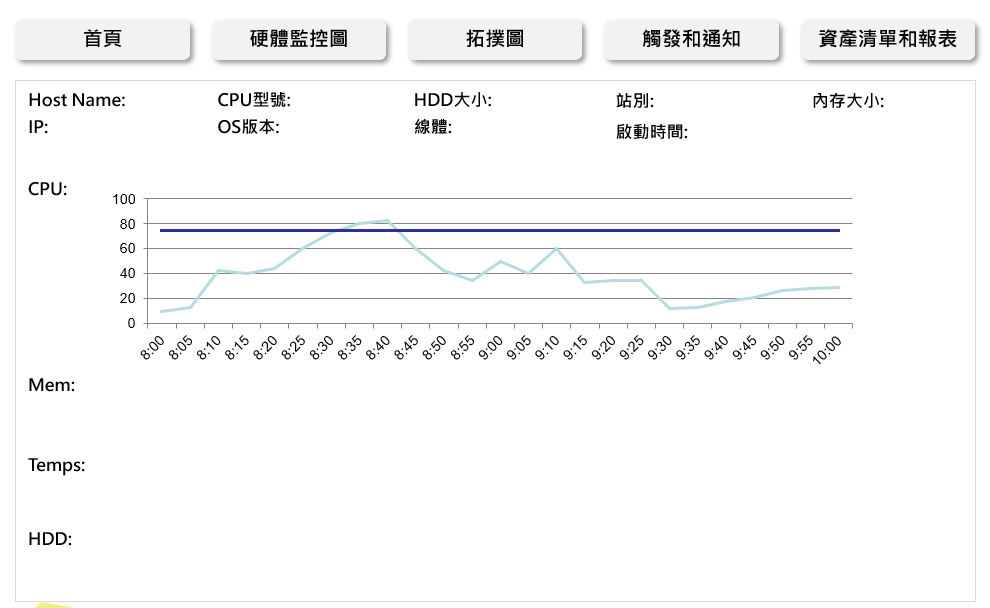
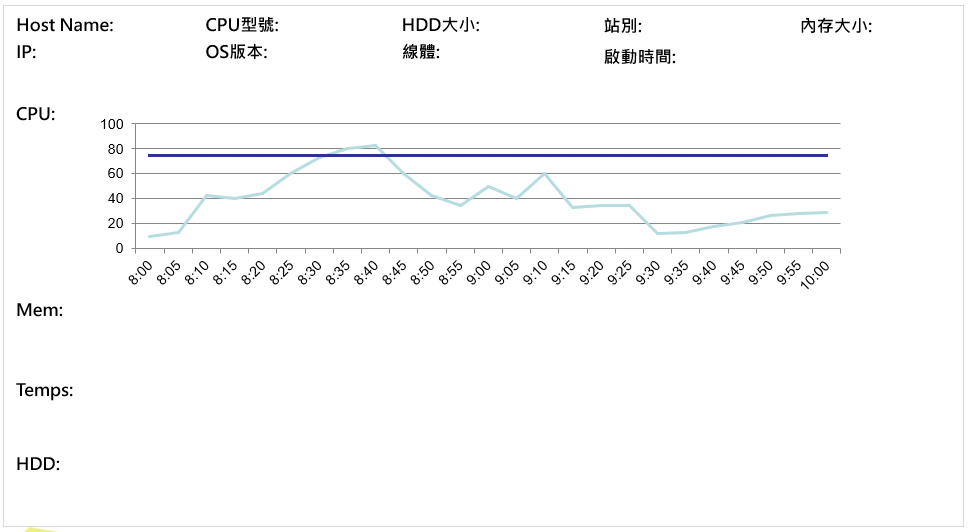
add Host-PC-Monitoring-2.md

diff --git a/content/post/Host-PC-Monitoring-1.md b/content/post/Host-PC-Monitoring-1.md
@@ -42,22 +42,32 @@ categories: [运维]
 - 封装Windows image
     - 使用工具：EasySysprep
     - 参考连接：[https://cloud.tencent.com/developer/article/1438238](https://cloud.tencent.com/developer/article/1438238)
-- 自动化部署电脑系统、驱动和程式（单独章节说明）
-    - 使用工具和方法：Ansible、PXE备份还原、自定义系统开发
+
 - 自动升级电脑补丁
     - 使用工具：WSUS
-- 电脑自动休眠和shutdown（待完善）
+
 - 远程登录产线电脑，并协助处理问题
     - 使用工具：TightVNC
     - 使用方法：将VNC工具封装在电脑image中，透过监控系统获取电脑的IP信息，再透过服务器远程控制产线电脑
+
 - 自动检查officescan和正版激活状况
     - 自定义开发工具：[https://github.com/Charles-Miao/Python-in-Action/tree/master/CheckComputer](https://github.com/Charles-Miao/Python-in-Action/tree/master/CheckComputer)
     - 透过监控系统实现闭环管理
-- 电脑监控系统设计和开发（单独章节说明）
+
+- 电脑监控系统设计和开发
     - 实现监控电脑基本信息、安全信息、系统性能、系统运行状况等
-- 透过监控数据分析电脑问题（单独章节说明）
+    - 介绍连接：[https://charles-miao.github.io/post/Host-PC-Monitoring-2/](https://charles-miao.github.io/post/Host-PC-Monitoring-2/)
+
+- 透过监控数据分析电脑问题（待更新）
     - 使用工具和方法：R，相关性分析
-- 电脑故障追踪，协助分析问题（单独章节说明）
+
+- 自动化部署电脑系统、驱动和程式（待更新）
+    - 使用工具和方法：Ansible、PXE备份还原、自定义系统开发
+
+- 电脑故障追踪，协助分析问题（待完善）
     - 使用工具：Mantis，trac
-- 电脑智慧化管理案例分享（单独章节说明）
+
+- 电脑智慧化管理案例分享（待完善）
+
+- 电脑自动休眠和shutdown（待完善）
 

diff --git a/content/post/Host-PC-Monitoring-2.md b/content/post/Host-PC-Monitoring-2.md
@@ -1,0 +1,41 @@
+---
+title: "生产电脑智慧化管理 - 数据可视化篇"
+date: 2020-09-01T22:49:33+08:00
+description: ""
+draft: false
+tags: [监控, 可视化]
+categories: [原型设计]
+---
+主要内容
+---
+- 监控项目
+- web界面设计
+<!--more-->
+
+监控项目
+---
+- 监控项目主要包含：电脑基本信息、电脑安全信息、电脑性能，以及系统运行状况等
+- 详细items：[https://github.com/Charles-Miao/blog/blob/master/static/Host-PC-Monitoring/monitor-items.xlsx](https://github.com/Charles-Miao/blog/blob/master/static/Host-PC-Monitoring/monitor-items.xlsx)
+
+web界面设计
+---
+
+首页
+
+![index](https://github.com/Charles-Miao/blog/blob/master/static/Host-PC-Monitoring/index.GIF?raw=true)
+
+实时数据页
+
+![real-time](https://github.com/Charles-Miao/blog/blob/master/static/Host-PC-Monitoring/real-time.GIF?raw=true)
+
+每台电脑详细数据
+
+![detail](https://github.com/Charles-Miao/blog/blob/master/static/Host-PC-Monitoring/detail.PNG?raw=true)
+
+维护界面
+
+![maintenance](https://github.com/Charles-Miao/blog/blob/master/static/Host-PC-Monitoring/maintenance.GIF?raw=true)
+
+历史数据捞取页
+
+![history](https://github.com/Charles-Miao/blog/blob/master/static/Host-PC-Monitoring/history.GIF?raw=true)
